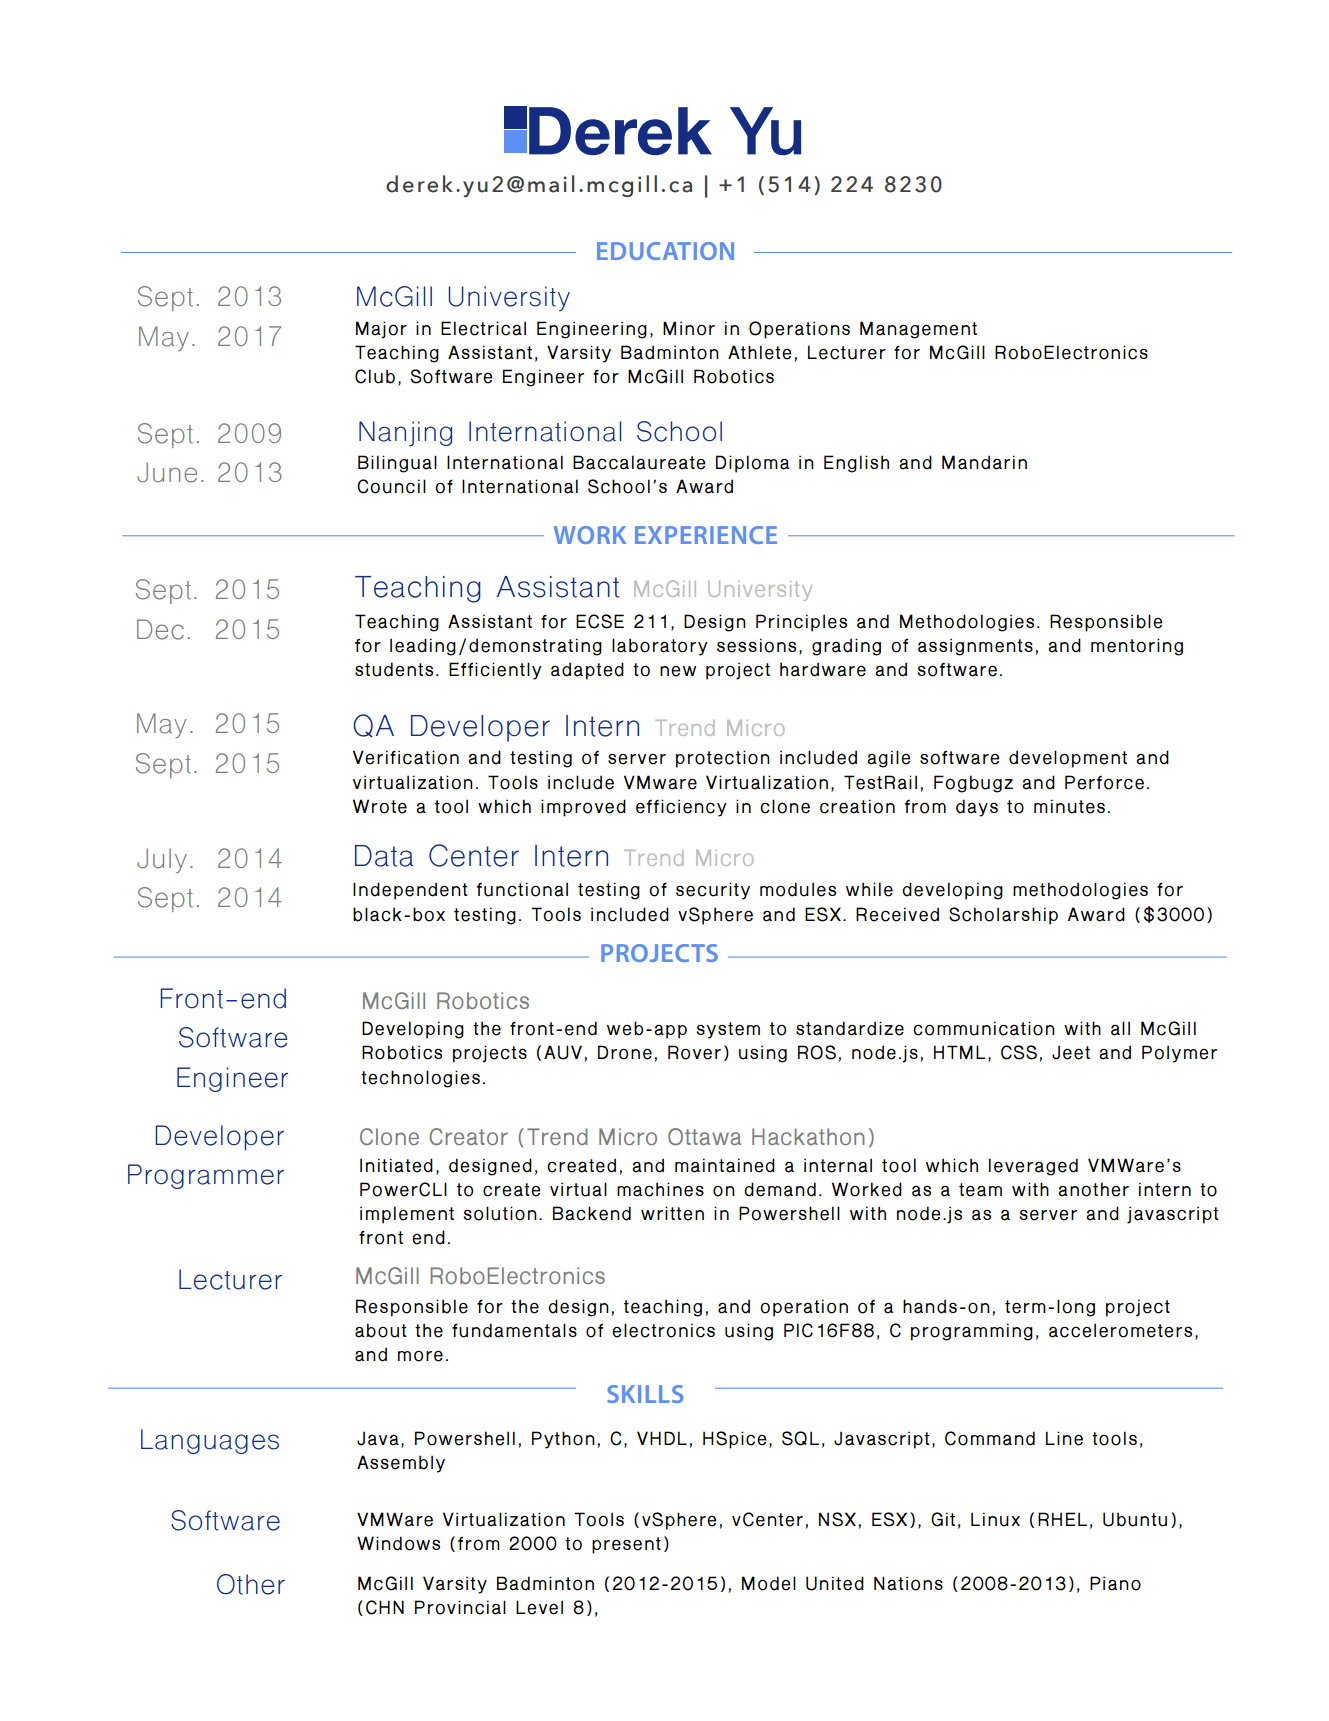
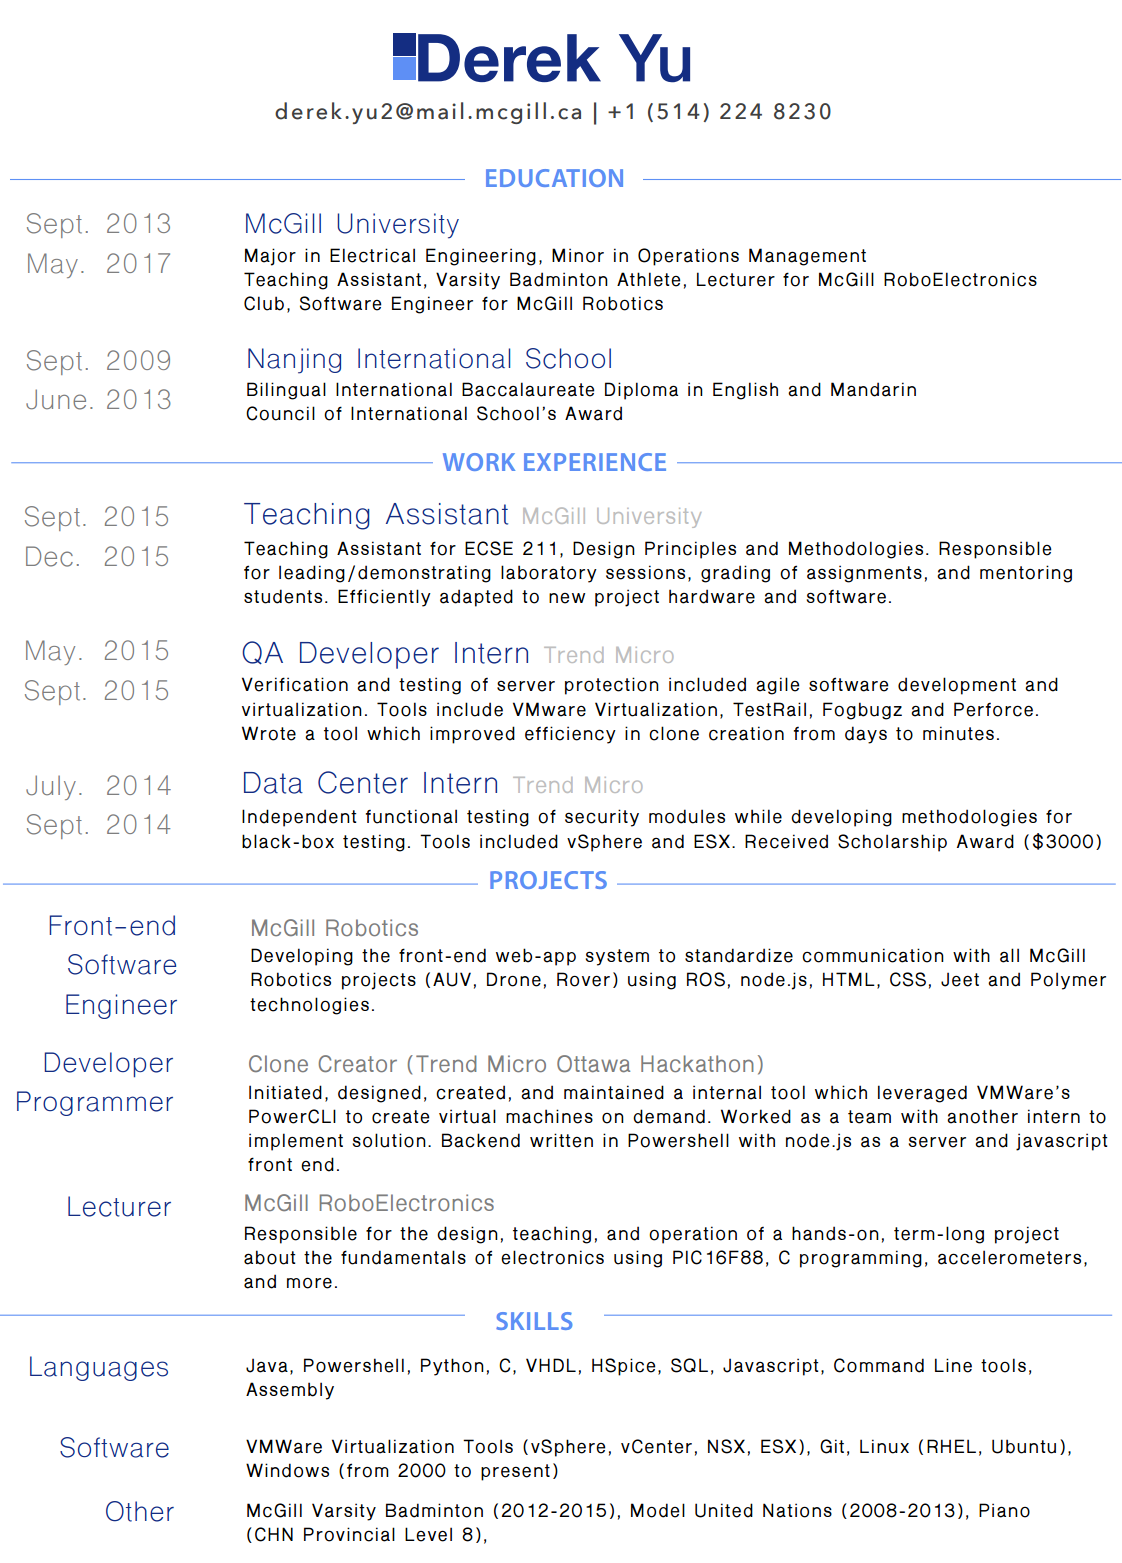
[Static Site] aligning contacts

diff --git a/_pages/04_contact.html b/_pages/04_contact.html
@@ -5,28 +5,32 @@ permalink: /contact
 group: top
 style: Right Column
 ---
-
-<!-- Main -->
 <section id="main" class="wrapper style1">
     <header class="major">
-        <h2>Contact</h2>
+      <h2>Contact</h2>
     </header>
     <div class="container">
-        <div class="row">
-            <div class="4u">
-                <section>
-                    <a class="image fit"><img src="/images/Profile.jpg" alt="" /></a>
-                    <p>
-                      Hey there! If you know of a job that you think I might be interested in, give me a shout through any of the means below!
-                    </p>
-                    <a class="image fit"><img src="/images/gmail-icon.svg" /></a>
-                </section>
+      <div class="row">
+        <div class="4u">
+          <a class="image fit"><img src="/images/Profile.jpg" alt=""/></a>
+          <div class="row collapse-at-2">
+            <div class="2u">
+              <a class="image fit" href="mailto:{{ site.email }}"><img src="/images/gmail-icon.svg" alt="gmail icon" style="width:50px;height50px"></a>
             </div>
-            <div class="8u">
-                <section>
-                    <a class="image fit"><img src="/images/Resume.png" style="width:600px;height:800px" /></a>
-                </section>
+            <div class="10u">
+              <p>
+                Send me a message if there's something you think I'll be interested in!
+              </p>
             </div>
+          </div>
         </div>
-
+        <div class="8u">
+          <center>
+            <section>
+              <a class="image fit"><img src="/images/Resume.png" style="width:575px;height:800px" /></a>
+            </section>
+          </center>
+        </div>
+      </div>
+    </div>
 </section>
